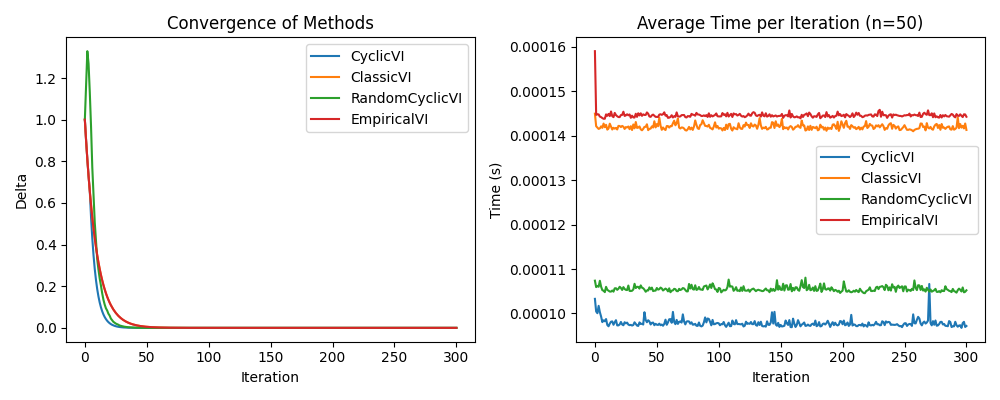
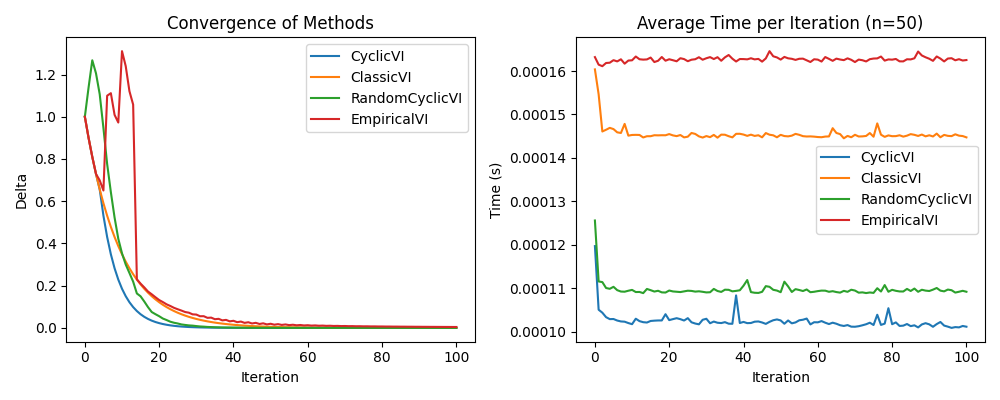
bug fix

diff --git a/solver.py b/solver.py
@@ -46,21 +46,23 @@ class ValueIterator(ABC):
         # If not updating during sweep, store and update later
         
         for state in self.get_states(mdp.states):
-            costs = []
             max_cost = 0
+            max_action = None
             for action in mdp.actions(state):
                 # Immediate reward
                 state_action_cost = mdp.reward(state, action)
+                empirical_prob = self.get_empirical_prob(counters, state, action)
                 for (next_state, p) in mdp.transition(state, action):
                     # Values based on next states
-                    empirical_prob = self.get_empirical_prob(counters, state, action)
                     state_action_cost += gamma * p * empirical_prob * V[next_state]
 
                 max_cost = max(max_cost, state_action_cost)
+                if max_cost == state_action_cost:
+                    max_action = action
 
                 # record the best action for the state
-                if max_cost == state_action_cost:
-                    counters[state][action] += 1
+            if max_action:
+                counters[state][max_action] += 1
 
                 costs.append((state_action_cost, action))
                 
@@ -109,9 +111,6 @@ class RandomVI(ValueIterator):
         return "{} (k={})".format(type(self).__name__, self.k)
 
 class EmpiricalVI(ValueIterator):
-    def __init__(self):
-        super().__init__()
-
     def get_states(self, states, **kwargs):
         return states
 
